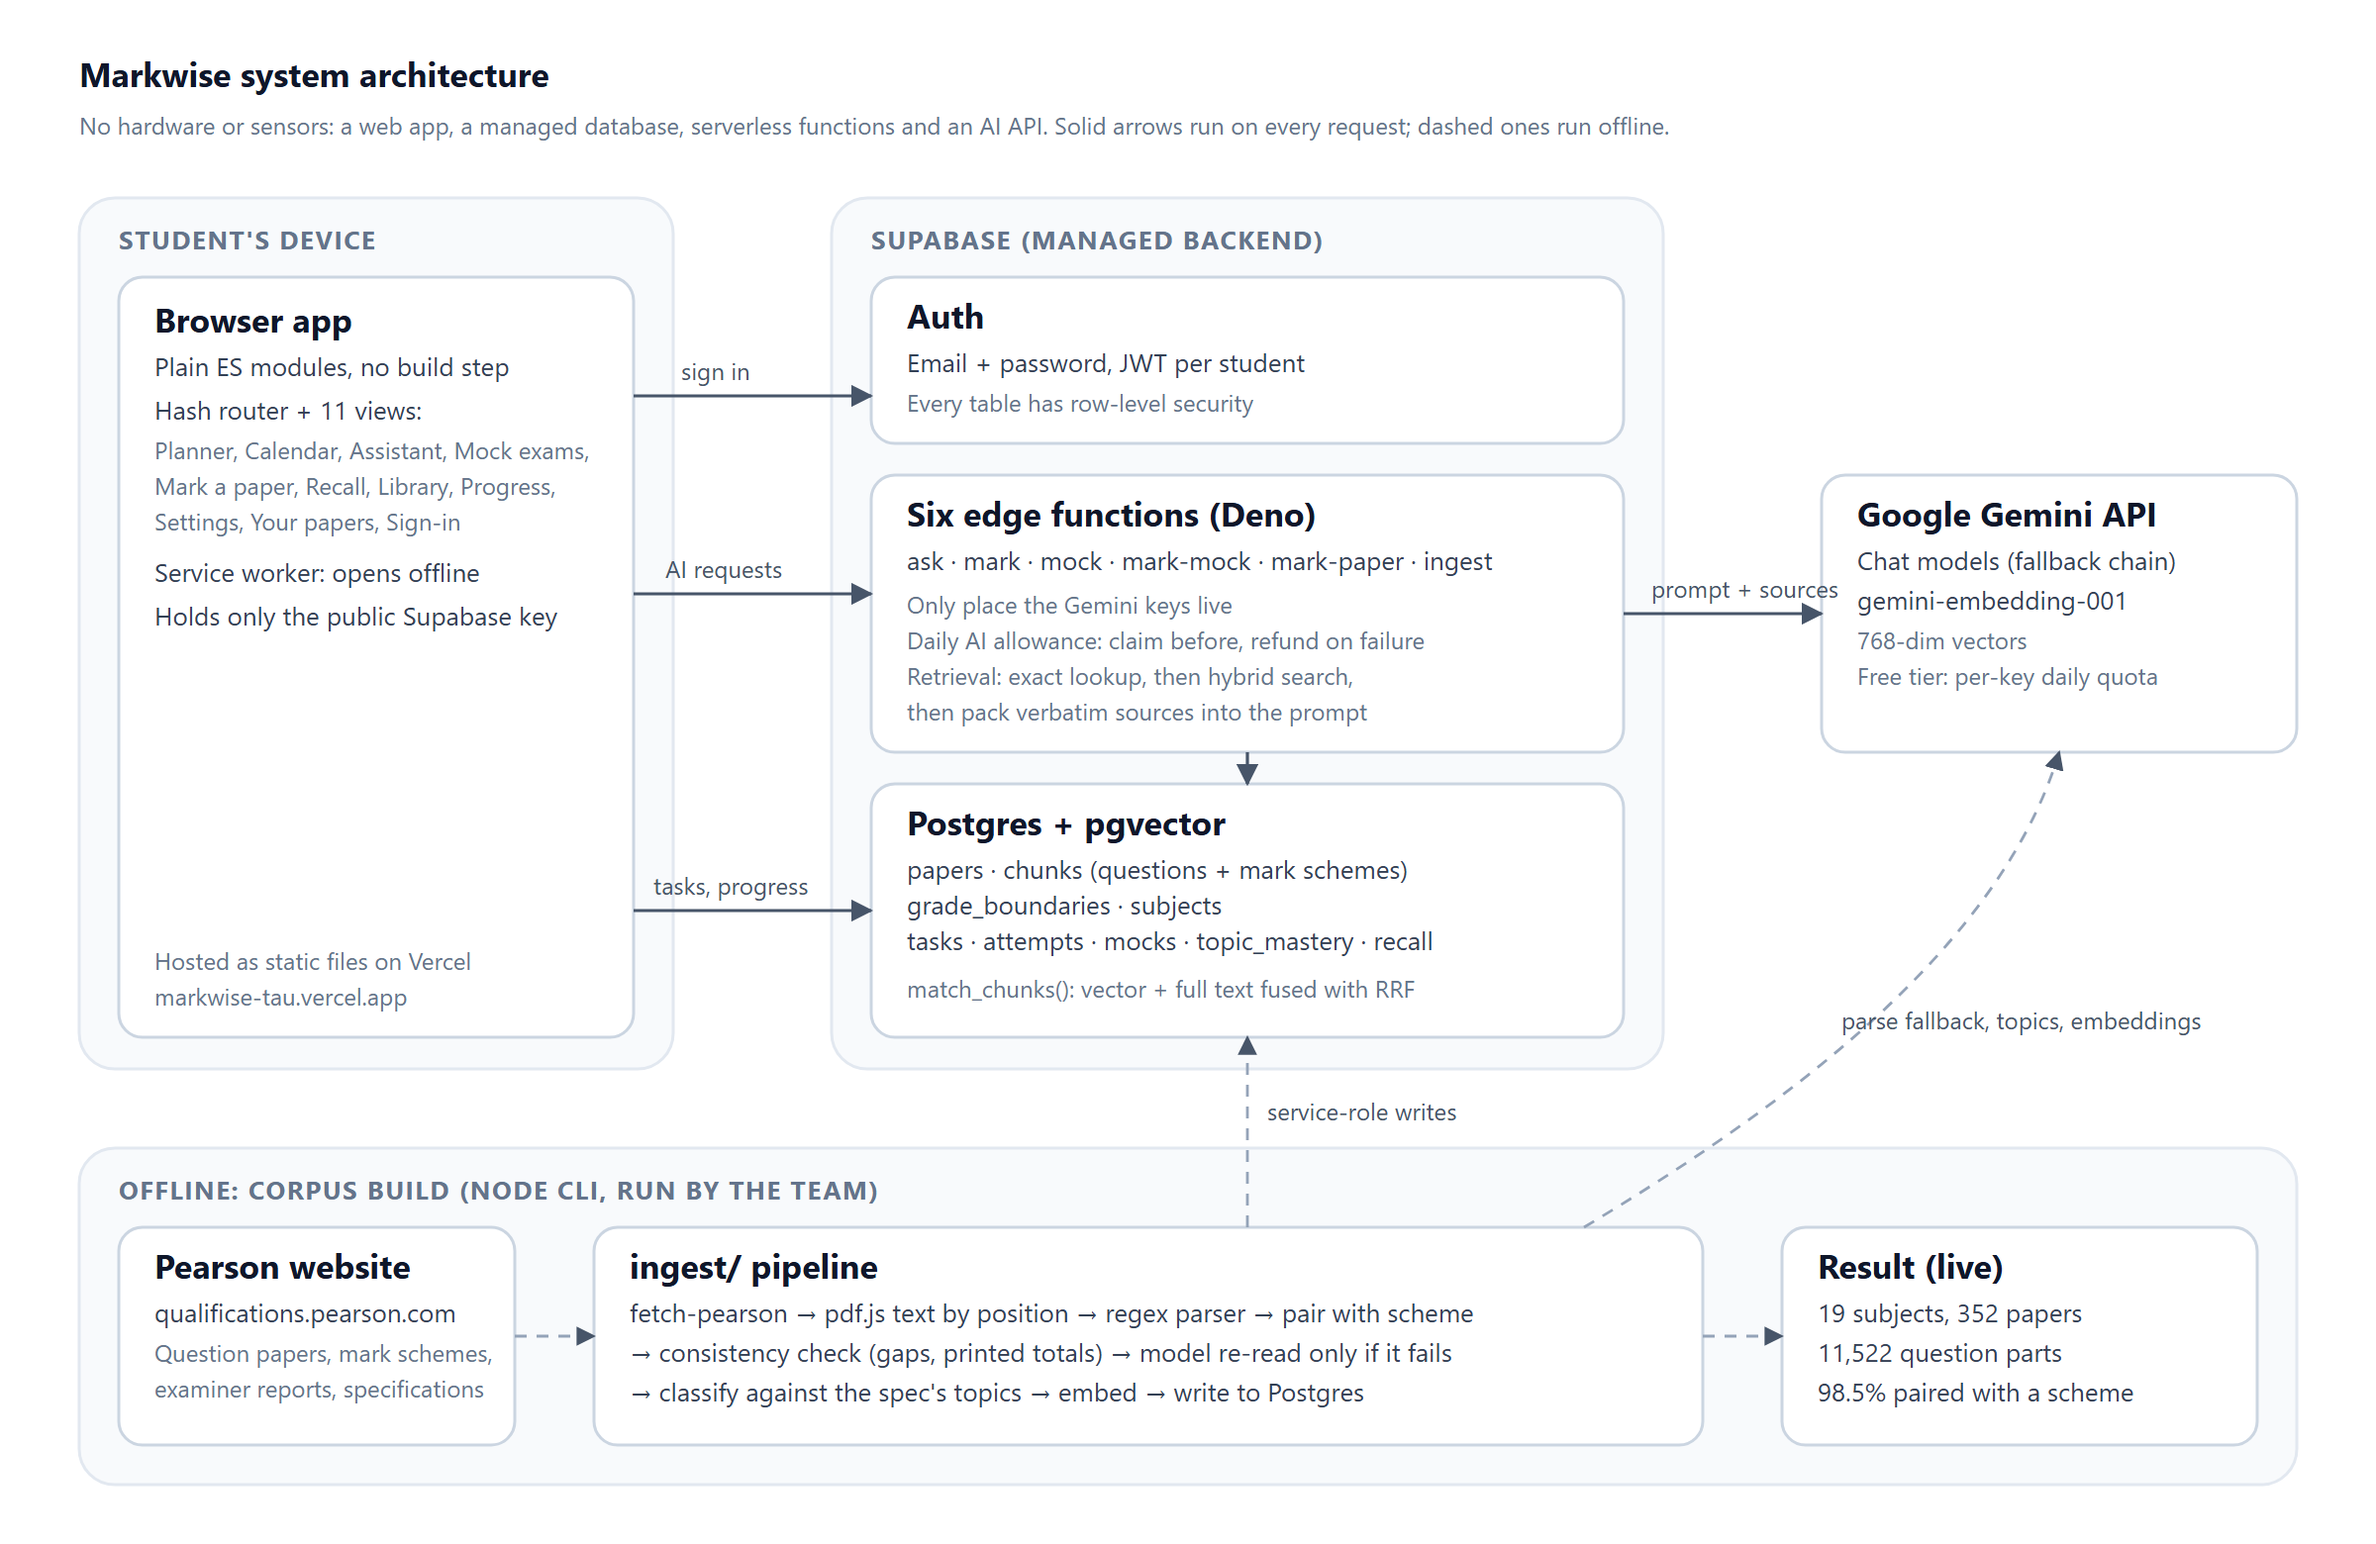
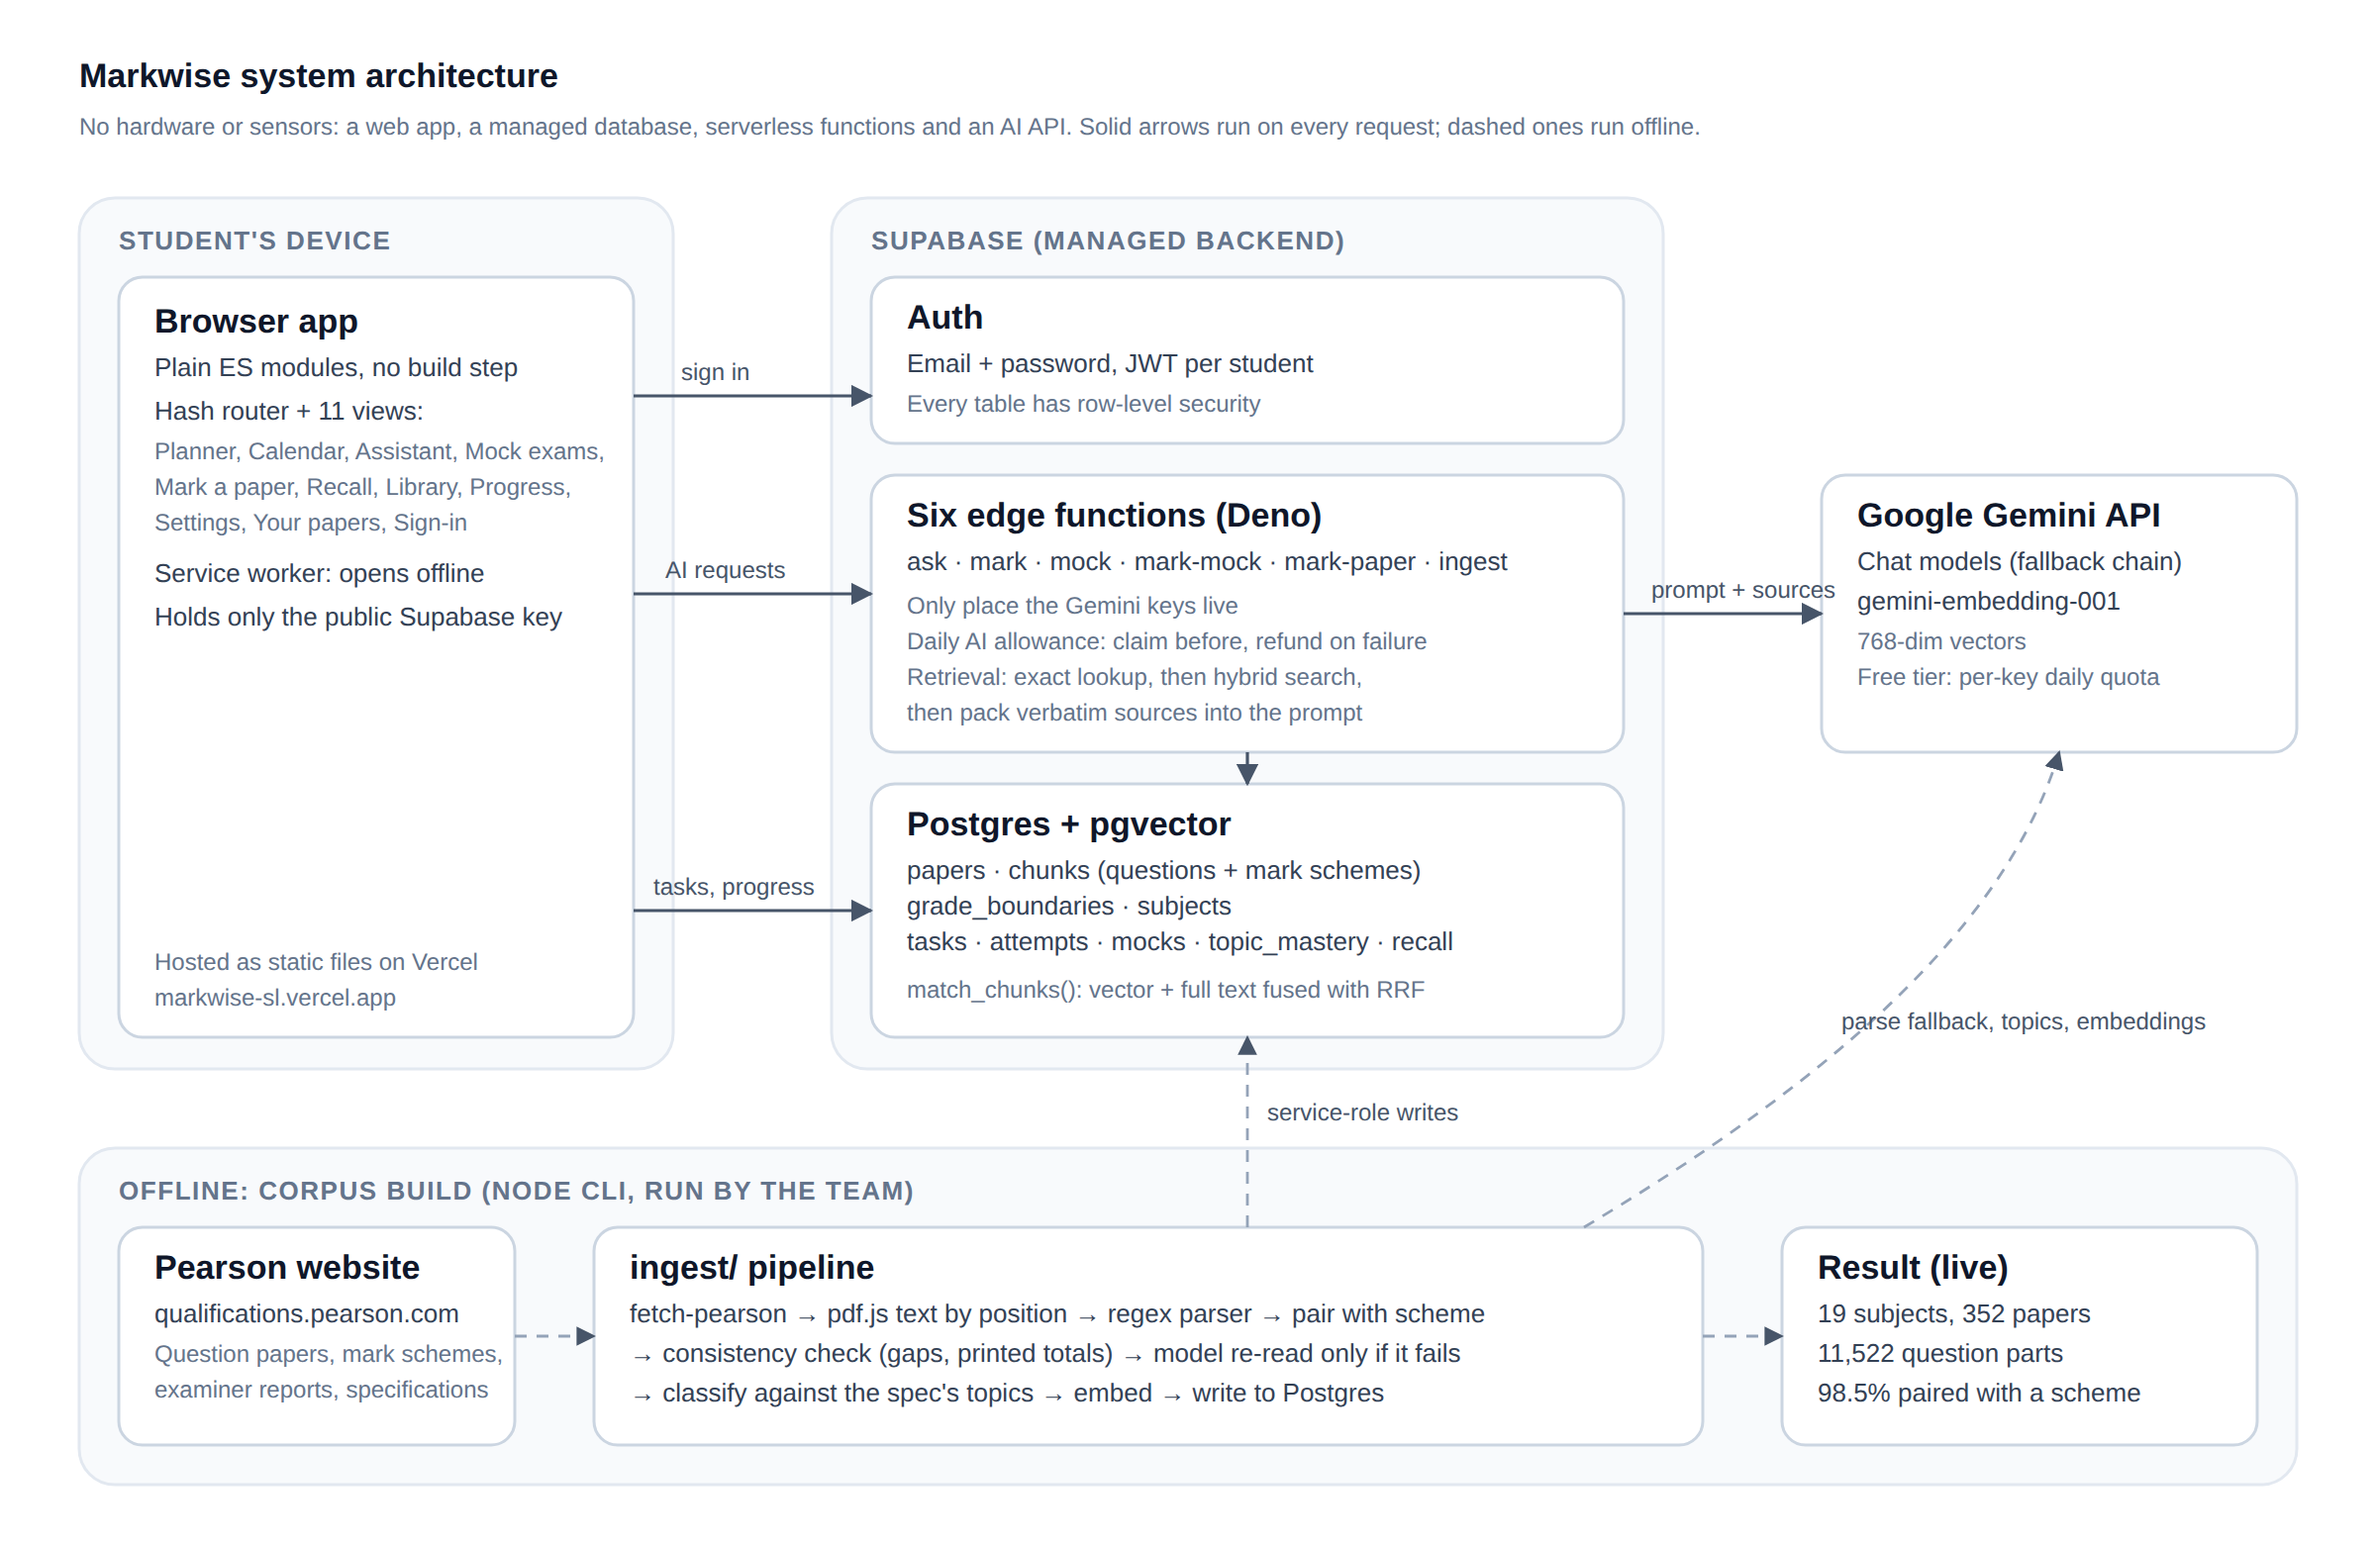
Point the docs at markwise-sl.vercel.app and refresh test evidence
- README, submission README and the architecture diagram (SVG and PNG)
  now link the current deployment, https://markwise-sl.vercel.app/.
- testing.md notes that the recorded browser run used the old address,
  leaves that raw log untouched, and shows how to rerun against the new one.
- Parse check rerun: 152 of 152 files clean (log and table updated).
- open-work.md: the hosting item names the new URL.
- .gitignore: restore the rules for local plan/status notes and one-off
  ingest helpers, and ignore the generated code.zip.

Claude-Session: https://claude.ai/code/session_01PrAmFfPuUuMNQJ53J149rT

diff --git a/docs/submission/testing.md b/docs/submission/testing.md
@@ -5,7 +5,7 @@ All runs below are from 25 September 2026. Raw output is in [data/test-runs](dat
 | Suite | Command | What it checks | Result |
 |---|---|---|---|
 | Logic | `npm test` | Parsing, pairing, retrieval queries, grade boundaries, dates, escaping. No network | **239 assertions and 31 Node tests pass** |
-| Parse check | `npm run check` | Every browser module and edge function parses; no stray control characters | 26 of 26 modules, 13 of 13 functions, 149 of 149 files clean |
+| Parse check | `npm run check` | Every browser module and edge function parses; no stray control characters | 26 of 26 modules, 13 of 13 functions, 152 of 152 files clean |
 | Security | `npm run test:security` | Row-level security against the live database with two throwaway students | **15 of 15 pass** |
 | Browser | `npm run test:browser` | Every screen of the live app in headless Chromium, as a throwaway student | **23 of 23 pass** |
 | Assistant | `npm run test:assistant` | Seven questions that used to go wrong, asked of the live assistant | 6 of 7 pass (below) |
@@ -71,7 +71,10 @@ anonymous access
 
 ## Browser test cases
 
-Run against the production site, https://markwise-tau.vercel.app:
+Run against the production site. The app has since moved to https://markwise-sl.vercel.app/;
+the raw log in [data/test-runs](data/test-runs/browser-production.txt) still shows the address
+it had on the day, `markwise-tau.vercel.app`. To rerun against the current address:
+`MARKWISE_TEST_ORIGIN=https://markwise-sl.vercel.app npm run test:browser`.
 
 ```
 ok  sign in                              ok  library: browse the corpus

diff --git a/docs/open-work.md b/docs/open-work.md
@@ -34,8 +34,9 @@ What's known to be unfinished or imperfect, as of 25 September 2026. Numbers com
 - **Citations.** In one of seven live assistant checks, a correct, grounded answer left out
   its inline citations.
 - **Admin upload.** The refusal path is tested; a successful live upload by an admin isn't.
-- **Hosting.** Set the Supabase Auth Site URL and redirect for the production URL, and link
-  the GitHub repository so Vercel deploys automatically.
+- **Hosting.** The app is live at https://markwise-sl.vercel.app/. Make sure the Supabase Auth
+  Site URL and redirect list use that address, so password-reset links land on it, and link the
+  GitHub repository so Vercel deploys automatically.
 
 ## Architecture
 

diff --git a/docs/submission/README.md b/docs/submission/README.md
@@ -5,7 +5,7 @@ planner with an AI assistant, mock-exam generator and answer marker. Every answe
 real past papers, mark schemes and examiner reports: 11,522 question parts across 19 subjects,
 June 2021 to June 2025.
 
-Live app: https://markwise-tau.vercel.app (private deployment; sign-up needed)
+Live app: https://markwise-sl.vercel.app/ (private deployment; sign-up needed)
 
 Everything below was generated from the real system on 25 September 2026 unless a file says
 otherwise.

diff --git a/README.md b/README.md
@@ -2,7 +2,7 @@
 
 **A study app for Pearson Edexcel International GCSE that has actually read the papers.**
 
-Live at [markwise-tau.vercel.app](https://markwise-tau.vercel.app).
+Live at [markwise-sl.vercel.app](https://markwise-sl.vercel.app/).
 
 Markwise does two jobs. It keeps track of homework, assessments, tuition and revision. And it
 answers questions, marks answers and builds mock exams from **11,522 real past-paper questions,
